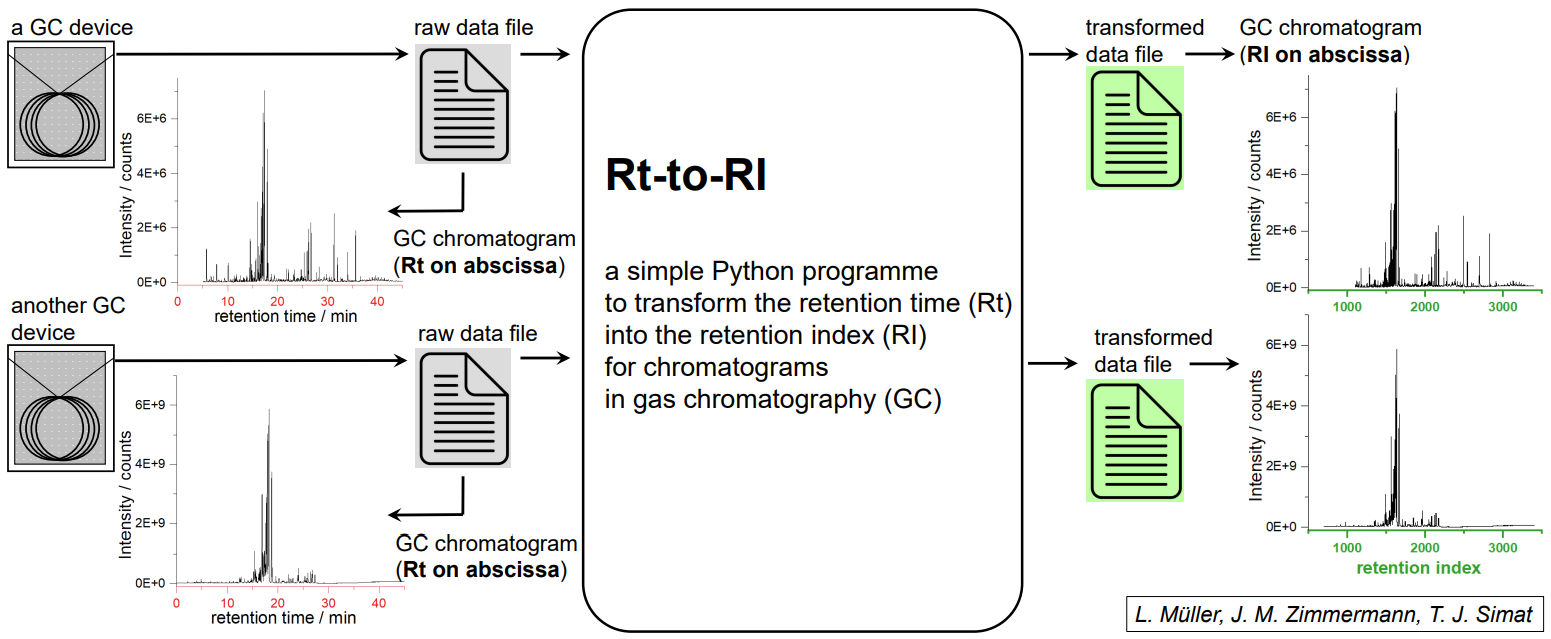
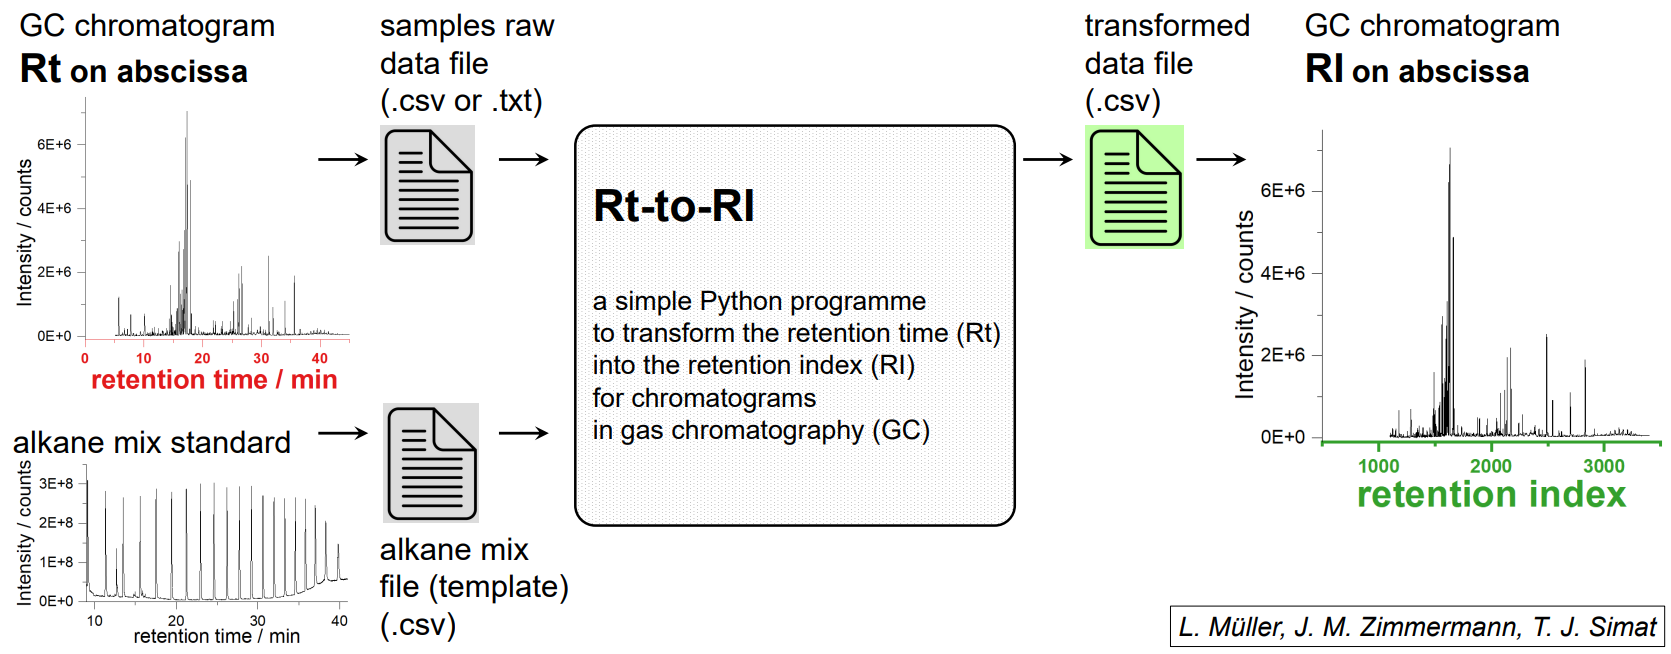
update paper

diff --git a/paper/paper.md b/paper/paper.md
@@ -28,7 +28,7 @@ bibliography: paper.bib
 # Summary
 *RT-to-RI* is a simple programme written in the Python programming language that converts the retention time (Rt) into the corresponding retention index (RI) for the data of a gas chromatography (GC) chromatogram (value pairs of Rt and the measured intensity) (see \autoref{fig:abs}). The programme calculates the corresponding RI for each data point using the calculation formula according to @kovats and @vanDen. The input in the presented programme is the raw data file of the sample chromatogram in .txt or .csv format and a second .csv file containing the retention times of an n-alkane standard mix on the same chromatographic system. The output is a single data set in .csv format and an interactive preview image. The new data file can then be imported into programmes such as Excel [@excel], Origin [@origin] or others. Here, the data can be visualized as a GC chromatogram with the RI on the abscissa and be used for further processing.
 
-![Graphical abstract showing simplified the indended use of *Rt-to-RI*: Generating a data set with the corresponding retention index (RI) for each data point of retention time (Rt) to visualise gas chromatography (GC) chromatograms with the RI on the abscissa. \label{fig:abs}](images/graphical-abstract.png)
+![Graphical abstract showing simplified functionality and purpose of *Rt-to-RI*: Generating a data set with the corresponding retention index (RI) for each data point of retention time (Rt) to visualise gas chromatography (GC) chromatograms with the RI on the abscissa. \label{fig:abs}](images/graphical-abstract.png)
 
 # Statement of need
 The retention index is used in gas chromatography to normalise the retention time of an analyte independently of the measuring device, the temperature gradient, the column dimension and the gas flow. The RI is a relative value that is characteristic of a substance on a specific stationary phase in a separation column [@kovats]. The RIs of many substances on different stationary phases - mostly DB-1, DB-5, WAX and FFAP - are listed in databases such as the NIST database [@nist]. Therefore, the RI of a substance can be used as a criterion to identify the substance in addition to the mass spectrum. This is particularly important for homologous series of substances whose mass spectra are highly similar but can be differentiated by their RI.
